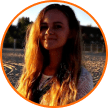
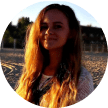
add new style from slider

Changed region(s): [[0.0, 0.0, 1.0, 1.0], [0.3056, 0.1944, 0.3333, 0.2222]]

diff --git a/src/partials/reviews.html b/src/partials/reviews.html
@@ -7,8 +7,10 @@
           <div class="reviews-card__wrap">
             <img
               srcset="
-                ./images/reviews/slider/img-7-mb-min.png    1x,
-                ./images/reviews/slider/img-7-mb@2x-min.png 2x
+                ./images/reviews/slider/img-7-mb-min.png     1x,
+                ./images/reviews/slider/img-7-mb@2x-min.png  2x,
+                ./images/reviews/slider/img-7-tab-min.png    1x,
+                ./images/reviews/slider/img-7-tab@2x-min.png 2x
               "
               src="./images/reviews/slider/img-7-mb-min.png"
               alt="girl avatar"
@@ -45,8 +47,10 @@
           <div class="reviews-card__wrap">
             <img
               srcset="
-                ./images/reviews/slider/img-1-mb-min.png    1x,
-                ./images/reviews/slider/img-1-mb@2x-min.png 2x
+                ./images/reviews/slider/img-1-mb-min.png     1x,
+                ./images/reviews/slider/img-1-mb@2x-min.png  2x,
+                ./images/reviews/slider/img-1-tab-min.png    1x,
+                ./images/reviews/slider/img-1-tab@2x-min.png 2x
               "
               src="./images/reviews/slider/img-1-mb-min.png"
               alt="girl avatar"
@@ -82,8 +86,10 @@
           <div class="reviews-card__wrap">
             <img
               srcset="
-                ./images/reviews/slider/img-6-mb-min.png    1x,
-                ./images/reviews/slider/img-6-mb@2x-min.png 2x
+                ./images/reviews/slider/img-6-mb-min.png     1x,
+                ./images/reviews/slider/img-6-mb@2x-min.png  2x,
+                ./images/reviews/slider/img-6-tab-min.png    1x,
+                ./images/reviews/slider/img-6-tab@2x-min.png 2x
               "
               src="./images/reviews/slider/img-6-mb-min.png"
               alt="girl avatar"
@@ -120,8 +126,10 @@
           <div class="reviews-card__wrap">
             <img
               srcset="
-                ./images/reviews/slider/img-5-mb-min.png    1x,
-                ./images/reviews/slider/img-5-mb@2x-min.png 2x
+                ./images/reviews/slider/img-5-mb-min.png     1x,
+                ./images/reviews/slider/img-5-mb@2x-min.png  2x,
+                ./images/reviews/slider/img-5-tab-min.png    1x,
+                ./images/reviews/slider/img-5-tab@2x-min.png 2x
               "
               src="./images/reviews/slider/img-5-mb-min.png"
               alt="girl avatar"
@@ -157,8 +165,10 @@
           <div class="reviews-card__wrap">
             <img
               srcset="
-                ./images/reviews/slider/img-4-mb-min.png    1x,
-                ./images/reviews/slider/img-4-mb@2x-min.png 2x
+                ./images/reviews/slider/img-4-mb-min.png     1x,
+                ./images/reviews/slider/img-4-mb@2x-min.png  2x,
+                ./images/reviews/slider/img-4-tab-min.png    1x,
+                ./images/reviews/slider/img-4-tab@2x-min.png 2x
               "
               src="./images/reviews/slider/img-4-mb-min.png"
               alt="girl avatar"
@@ -195,8 +205,10 @@
           <div class="reviews-card__wrap">
             <img
               srcset="
-                ./images/reviews/slider/img-3-mb-min.png    1x,
-                ./images/reviews/slider/img-3-mb@2x-min.png 2x
+                ./images/reviews/slider/img-3-mb-min.png     1x,
+                ./images/reviews/slider/img-3-mb@2x-min.png  2x,
+                ./images/reviews/slider/img-3-tab-min.png    1x,
+                ./images/reviews/slider/img-3-tab@2x-min.png 2x
               "
               src="./images/reviews/slider/img-3-mb-min.png"
               alt="girl avatar"
@@ -233,8 +245,10 @@
           <div class="reviews-card__wrap">
             <img
               srcset="
-                ./images/reviews/slider/img-2-mb-min.png    1x,
-                ./images/reviews/slider/img-2-mb@2x-min.png 2x
+                ./images/reviews/slider/img-2-mb-min.png     1x,
+                ./images/reviews/slider/img-2-mb@2x-min.png  2x,
+                ./images/reviews/slider/img-2-tab-min.png    1x,
+                ./images/reviews/slider/img-2-tab@2x-min.png 2x
               "
               src="./images/reviews/slider/img-2-mb-min.png"
               alt="girl avatar"

diff --git a/src/sass/layout/_reviews.scss b/src/sass/layout/_reviews.scss
@@ -63,6 +63,11 @@
 }
 .reviews__wrap {
   position: relative;
+
+  @include mq(desktop) {
+    width: 1090px;
+    margin: 0 auto;
+  }
 }
 
 .reviews-card {
@@ -197,23 +202,40 @@
 }
 
 .reviews__list {
-  min-width: 0;
+  max-width: 182px;
+  margin: 0 auto;
+  margin-top: 52px;
   display: flex;
   justify-content: center;
   align-items: center;
   gap: 10px;
 
   @include mq(tablet) {
+    max-width: 558px;
+    margin-top: 40px;
     gap: 30px;
   }
 }
 
-.slick-track {
-  display: flex;
+.reviews__item {
+  margin-left: 5px;
+  margin-right: 5px;
+
+  @include mq(tablet) {
+    margin-left: 15px;
+    margin-right: 15px;
+  }
 }
 
-.slick-list {
-  overflow: hidden;
+.reviews__item img {
+  transition: outline 300ms ease-in-out;
+}
+
+.reviews__item.slick-slide.slick-current.slick-active img {
+  outline: 2px solid #ff6b09;
+  outline-offset: -2px;
+
+  border-radius: 50%;
 }
 
 .reviews__wrap .slick-arrow {
@@ -230,7 +252,7 @@
 .reviews__wrap .slick-arrow.slick-prev {
   background: url('../images/icon-svg/arrow-pre.svg') 0 0 / 100% no-repeat;
   left: 0;
-  bottom: -27px;
+  bottom: -79px;
   transform: translateY(50%);
 
   @include mq(tablet) {
@@ -245,7 +267,7 @@
 .reviews__wrap .slick-arrow.slick-next {
   background: url('../images/icon-svg/arrow-next.svg') 0 0 / 100% no-repeat;
   right: 0;
-  bottom: -27px;
+  bottom: -79px;
   transform: translateY(50%);
   @include mq(tablet) {
     bottom: 50%;
@@ -261,9 +283,10 @@
   border-color: transparent;
 }
 
-.slick-initialized .slick-slide {
-  margin: 0 auto;
-  display: flex;
-  justify-content: center;
-  align-items: center;
+.slick-slide img {
+  max-width: 90px;
+
+  @include mq(tablet) {
+    max-width: 150px;
+  }
 }

diff --git a/src/js/slider.js b/src/js/slider.js
@@ -1,49 +1,28 @@
 $('.reviews__wrap').slick({
-   infinite: true,
-   slidesToShow: 1,
-   slidesToScroll:1, 
-   waitForAnimate: false,
-   asNavFor: '.reviews__list',
- });
- $('.reviews__list').slick({
-   infinite: true,
-   arrows: false,
-   slidesToShow: 7,
-   slidesToScroll: 1, 
-   waitForAnimate: false,
-   centerMode: true,
-   focusOnSelect: true,
-   asNavFor: '.reviews__wrap',
-   responsive: [
-      {
-         breakpoint: 1366,
-         settings: {
-           slidesToShow: 7,
-           slidesToScroll: 1
-         }
-       },
-      {
-        breakpoint: 768,
-        settings: {
-          slidesToShow: 7,
-          slidesToScroll: 1
-          
-        }
+  infinite: true,
+  slidesToShow: 1,
+  slidesToScroll: 1,
+  waitForAnimate: false,
+  asNavFor: '.reviews__list',
+});
+
+$('.reviews__list').slick({
+  infinite: true,
+  arrows: false,
+  slidesToShow: 3,
+  slidesToScroll: 1,
+  waitForAnimate: false,
+  focusOnSelect: true,
+  asNavFor: '.reviews__wrap',
+  mobileFirst: true,
+  responsive: [
+    {
+      breakpoint: 767,
+      settings: {
+        slidesToShow: 7,
+        slidesToScroll: 7,
+        infinite: false,
       },
-      {
-         breakpoint: 480,
-         settings: {
-           slidesToShow: 3,
-           slidesToScroll: 1
-           
-         }
-       },
-      
-    ]
-   
- });
-
-
-
-
- 
+    },
+  ],
+});
